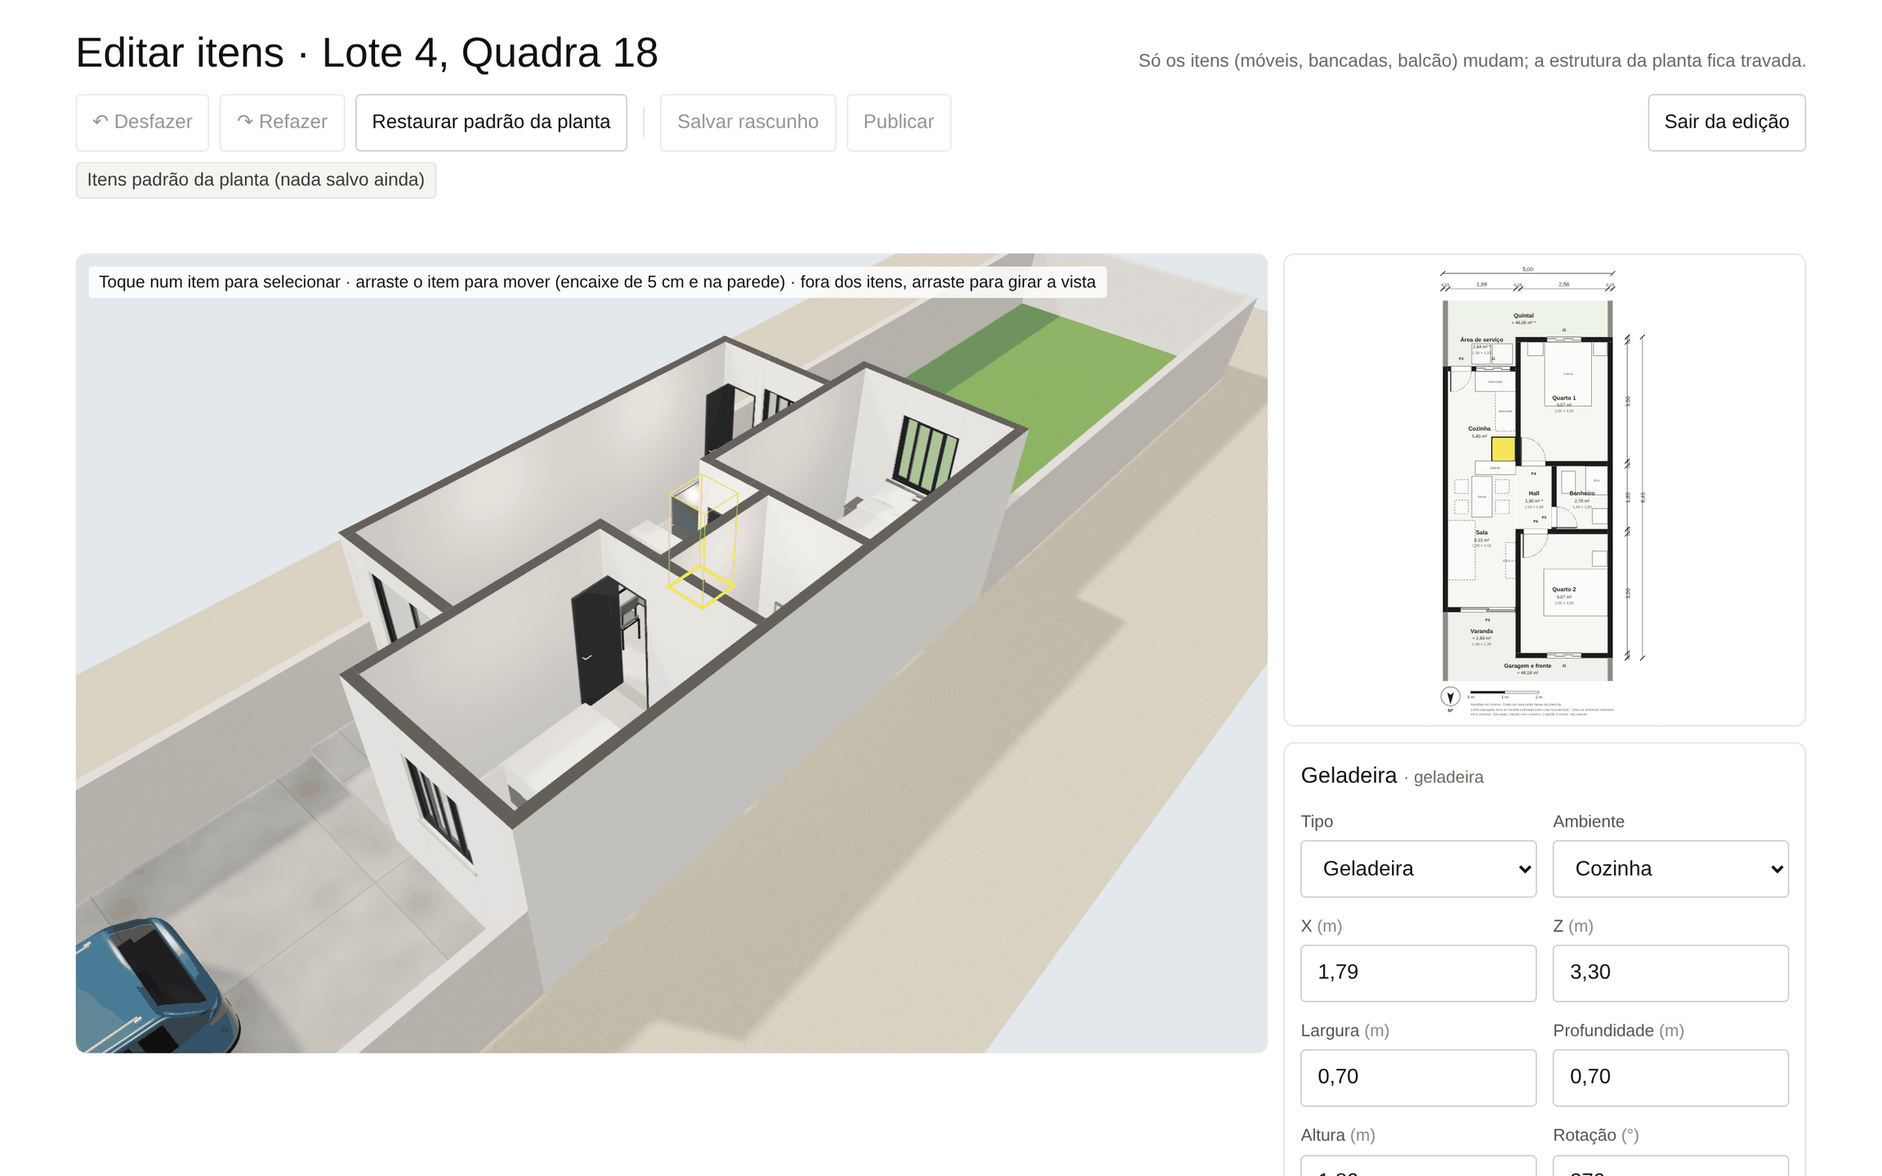
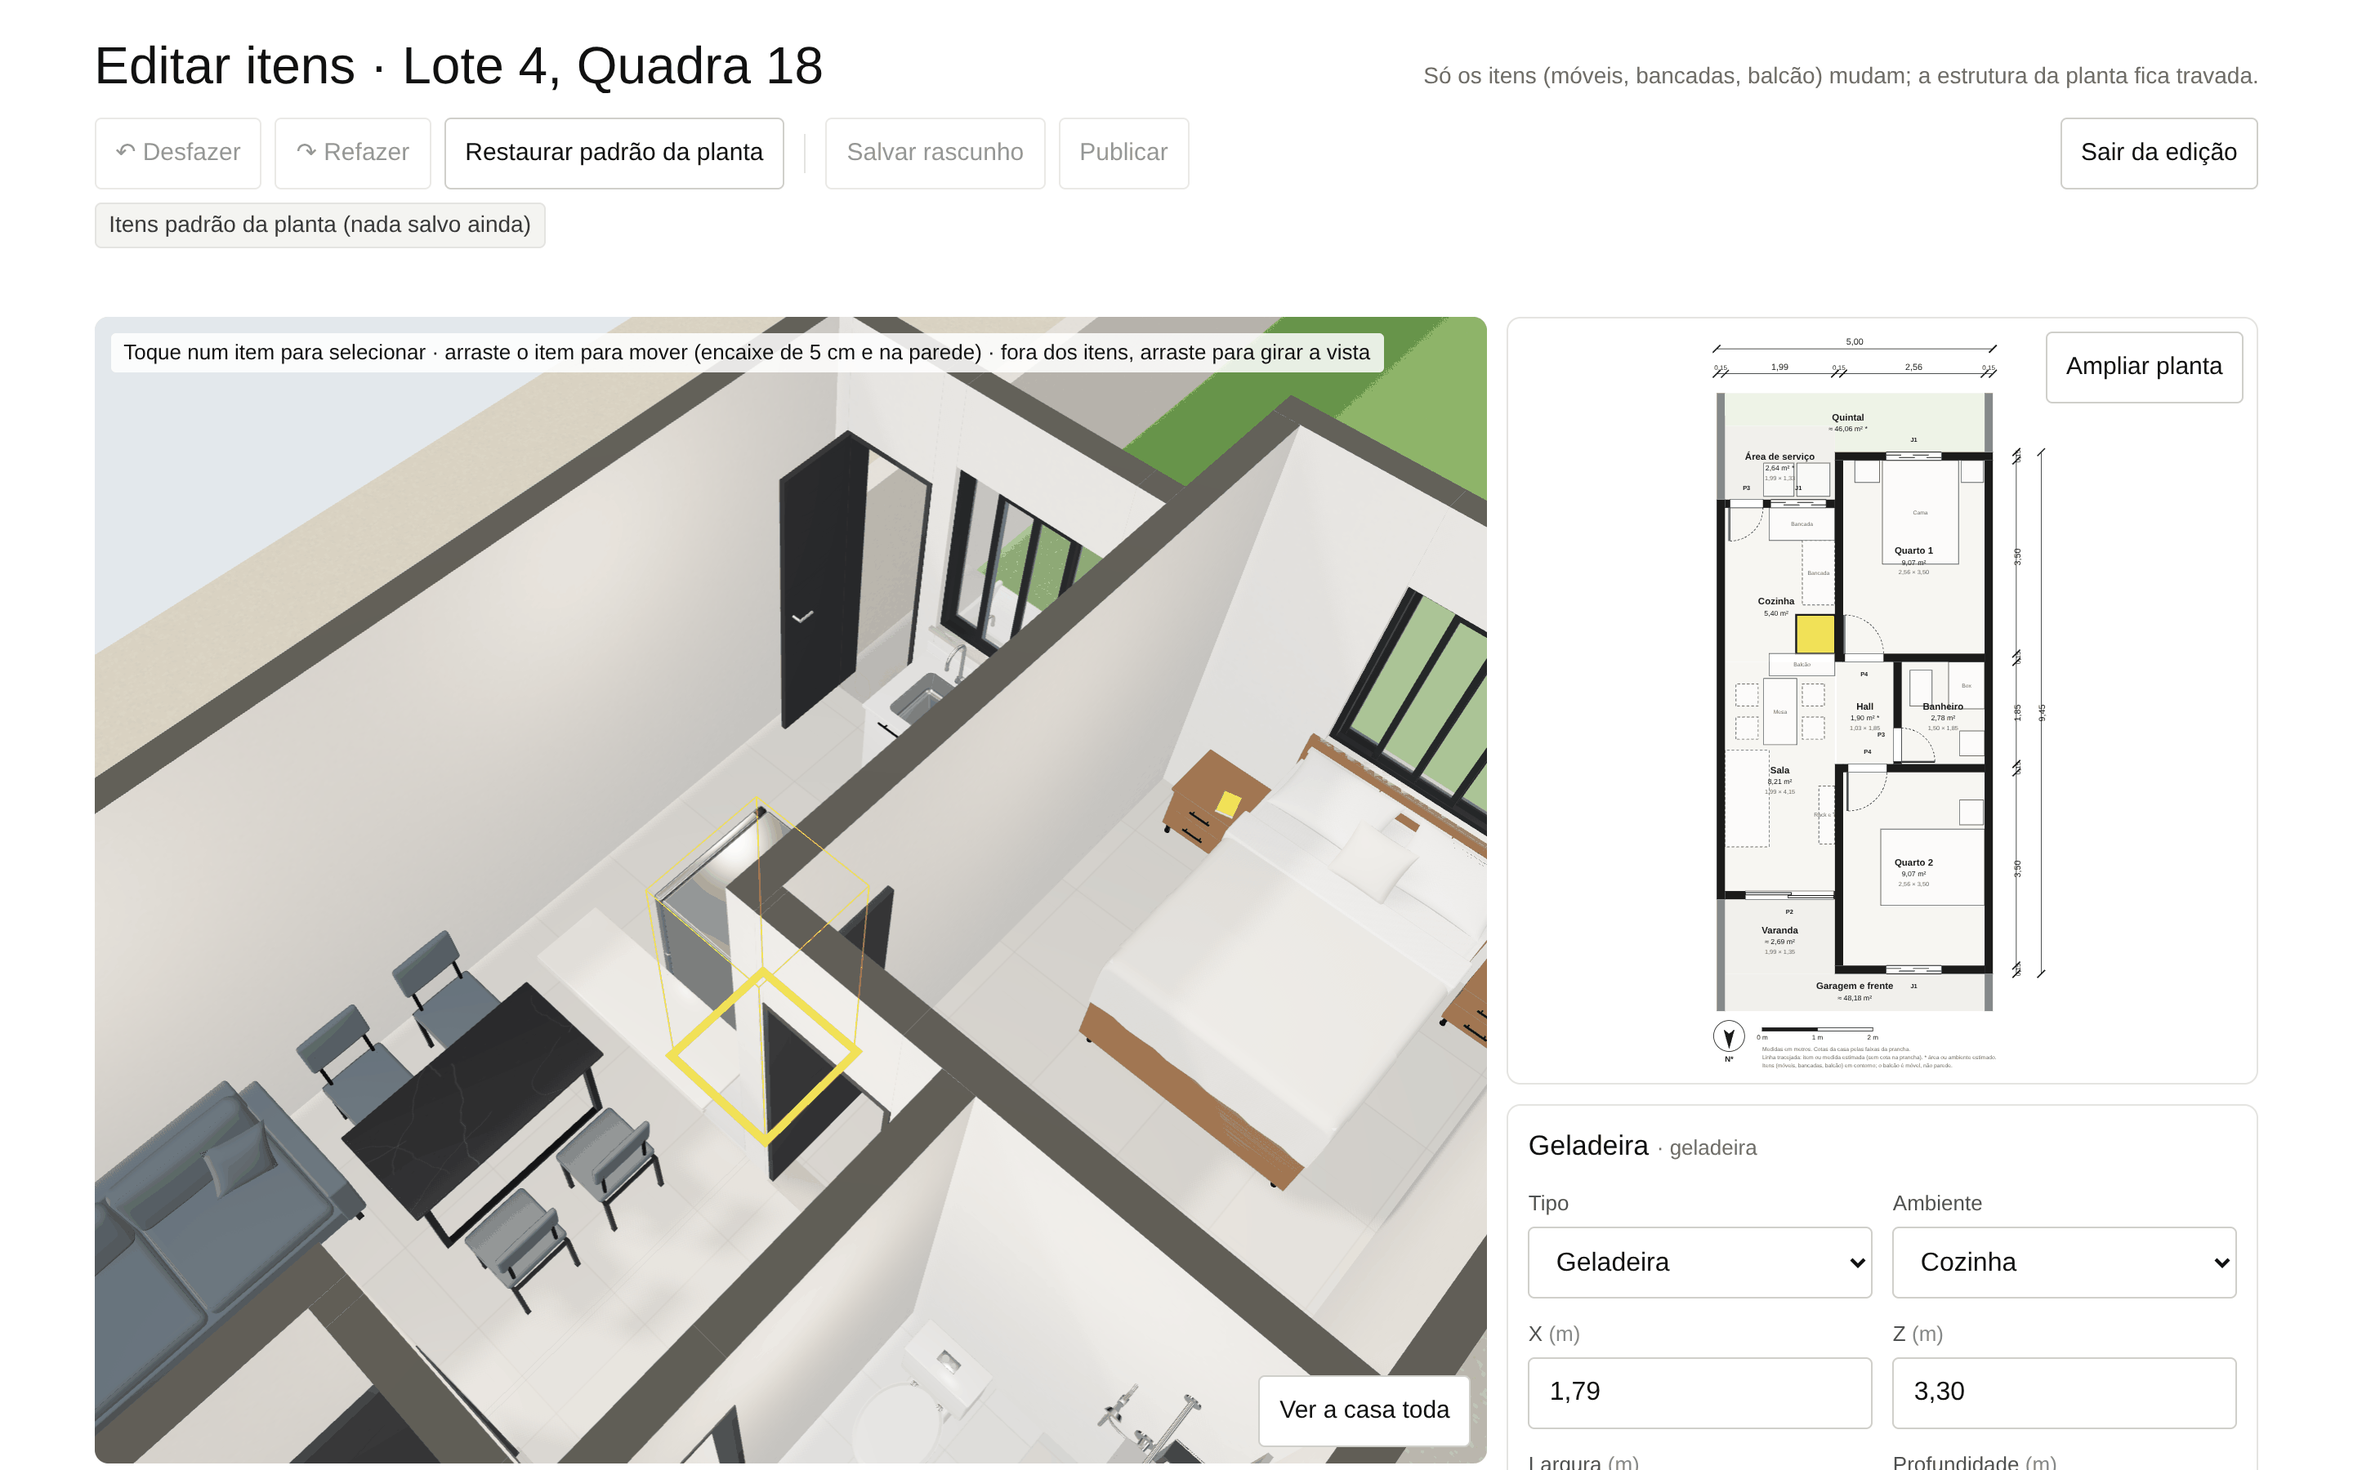
fix: editor no computador enquadra o ambiente do item, planta ampliável e rótulos de porta sem sobrepor [EPIC-028 E3]
- selecionar um item enquadra o 3D no ambiente dele (no arraste 3D, só ao soltar);
  botão 'Ver a casa toda'
- planta 2D lateral maior e 'Ampliar planta' (troca o 3D pela planta grande)
- rótulos de portas vizinhas na planta 2D deslizam ao longo do vão em vez de
  sobrepor (P3 do banheiro x P4 do quarto 2)
- screenshots da Etapa 3 regravados (+ desktop-editor-planta-ampliada)

Claude-Session: https://claude.ai/code/session_01QpDfRA1nw7ADvjpi5ZVGUK

diff --git a/client/src/components/maquete-3d/editor/EditorItens.tsx b/client/src/components/maquete-3d/editor/EditorItens.tsx
@@ -11,7 +11,7 @@ import { ambienteEm, cenaDaFonte, ehAuxiliar, pecasDaFonte, type PecaFonte } fro
 import type { TipoMovel } from "@shared/maquete-3d/mobilia";
 import {
   alterarItem, ambientesEditaveis, canonico, converterTipo, criarHistorico, desfazer, fecharGesto, girar, itensDoProblema, novoItem,
-  portasBloqueadas, posicaoArrastada, problemasDaEdicao, refazer, registrar, rotuloDoTipo, type Historico,
+  portasBloqueadas, posicaoArrastada, problemasDaEdicao, refazer, registrar, rotuloDoTipo, vistaDoAmbiente, type Historico,
 } from "@shared/maquete-3d/edicao";
 import { Planta2D } from "../planta2d/Planta2D";
 import VisualizadorFonte, { type Controles } from "../visualizador/VisualizadorFonte";
@@ -33,6 +33,18 @@ function usarPecas(fonte: FontePlanta, itens: ItemFonte[]): PecaFonte[] {
   }), [fonte, itens]);
 }
 
+/** Computador (o enquadramento no ambiente e a planta grande valem só aí; no celular, 3D e planta já ocupam a tela). */
+function usarComputador() {
+  const consulta = "(min-width: 768px)";
+  const [sim, setSim] = useState(() => typeof window !== "undefined" && window.matchMedia(consulta).matches);
+  useEffect(() => {
+    const m = window.matchMedia(consulta), mudou = () => setSim(m.matches);
+    m.addEventListener("change", mudou);
+    return () => m.removeEventListener("change", mudou);
+  }, []);
+  return sim;
+}
+
 const ehCampoDeTexto = (t: EventTarget | null) => t instanceof HTMLElement && (t.isContentEditable || /^(INPUT|SELECT|TEXTAREA)$/.test(t.tagName));
 
 export default function EditorItens({ planta, conexao, aoSair }: { planta: string; conexao: ConexaoEditor; aoSair: (itens: ItemFonte[] | null) => void }) {
@@ -48,6 +60,10 @@ export default function EditorItens({ planta, conexao, aoSair }: { planta: strin
   const [ocupado, setOcupado] = useState<null | "salvar" | "publicar">(null);
   const [msg, setMsg] = useState<Mensagem | null>(null);
   const [pronto, setPronto] = useState(false);
+  /** Ambiente em que o 3D está enquadrado (computador); null = visão geral. */
+  const [foco, setFoco] = useState<string | null>(null);
+  const [plantaGrande, setPlantaGrande] = useState(false);
+  const computador = usarComputador();
 
   const abrir = useCallback(async () => {
     setErroAbrir(null);
@@ -63,7 +79,8 @@ export default function EditorItens({ planta, conexao, aoSair }: { planta: strin
   const base = dados?.fonte ?? null;
   const itens = h?.presente ?? [];
   const cena = useMemo(() => (base ? cenaDaFonte(base) : null), [base]);
-  const vista = cena?.vistas.find(v => v.tipo === "geral") ?? cena?.vistas[0] ?? null;
+  const geral = cena?.vistas.find(v => v.tipo === "geral") ?? cena?.vistas[0] ?? null;
+  const vista = useMemo(() => (base && geral && foco && computador ? vistaDoAmbiente(base, geral, foco) ?? geral : geral), [base, geral, foco, computador]);
   const fonte = useMemo(() => (base ? { ...base, itens } : null), [base, itens]);
   const pecas = usarPecas(base ?? ({ estrutura: { ambientes: [] } } as unknown as FontePlanta), base ? itens : []);
   const problemas = useMemo(() => (base ? problemasDaEdicao(base, itens) : []), [base, itens]);
@@ -76,6 +93,10 @@ export default function EditorItens({ planta, conexao, aoSair }: { planta: strin
   const editaveis = useMemo(() => new Set(itens.filter(i => i.editavel).map(i => i.id)), [itens]);
   const sujo = useMemo(() => canonico(itens) !== canonico(salvos), [itens, salvos]);
   const item = itens.find(i => i.id === sel) ?? null;
+  const itensRef = useRef(itens);
+  itensRef.current = itens;
+  /** Enquadra o 3D no ambiente do item (o contorno amarelo fica visível); a câmera não volta sozinha ao desmarcar. */
+  const focar = useCallback((id: string) => { const i = itensRef.current.find(q => q.id === id); if (i) setFoco(i.ambiente); }, []);
 
   // ── Mudanças (todas passam pelo histórico) ──
   const mudar = useCallback((f: (lista: ItemFonte[]) => ItemFonte[], chave: string | null = null) => {
@@ -106,7 +127,13 @@ export default function EditorItens({ planta, conexao, aoSair }: { planta: strin
       if (p) mover(p.id, p.x, p.z, `arrastar:${p.id}:${p.gesto}`);
     });
   }, [mover]);
-  const aoSoltar = useCallback(() => setH(x => (x ? fecharGesto(x) : x)), []);
+  const aoSoltar = useCallback(() => {
+    setH(x => (x ? fecharGesto(x) : x));
+    const id = focoPendente.current;
+    focoPendente.current = null;
+    // Depois do quadro: o item já está no ambiente para onde foi arrastado.
+    if (id) requestAnimationFrame(() => focar(id));
+  }, [focar]);
   useEffect(() => () => cancelAnimationFrame(quadro.current), []);
 
   const doItem = (m: Partial<ItemFonte>, campo: string) => {
@@ -122,10 +149,21 @@ export default function EditorItens({ planta, conexao, aoSair }: { planta: strin
     mudar(lista => [...lista, novo]);
     setSel(novo.id);
   };
-  const selecionar = useCallback((id: string | null) => {
+  const selecionar = useCallback((id: string | null, enquadrar = true) => {
     setSel(id);
-    if (id) { const i = h?.presente.find(q => q.id === id); if (i && ambientes.includes(i.ambiente)) setAmbCat(i.ambiente); }
-  }, [h, ambientes]);
+    if (id) {
+      const i = h?.presente.find(q => q.id === id);
+      if (i && ambientes.includes(i.ambiente)) setAmbCat(i.ambiente);
+      if (enquadrar) focar(id);
+    }
+  }, [h, ambientes, focar]);
+  // No 3D o toque num item já pode virar arraste: a câmera só se move quando o dedo/mouse sobe (aoSoltar).
+  const focoPendente = useRef<string | null>(null);
+  const selecionar3d = useCallback((id: string | null) => {
+    selecionar(id, false);
+    if (id && itensRef.current.find(q => q.id === id)?.editavel) focoPendente.current = id;
+    else if (id) focar(id);
+  }, [selecionar, focar]);
   const restaurar = () => { if (!dados) return; mudar(() => dados.padrao); setSel(null); setMsg({ tipo: "ok", texto: "Itens padrão da planta de volta. Salve para gravar (ou desfaça)." }); };
   const desfazerUm = useCallback(() => setH(x => (x ? desfazer(x) : x)), []);
   const refazerUm = useCallback(() => setH(x => (x ? refazer(x) : x)), []);
@@ -240,10 +278,11 @@ export default function EditorItens({ planta, conexao, aoSair }: { planta: strin
           </button>
         ))}
       </div>
-      <div className="grid gap-3 md:grid-cols-[minmax(0,1fr)_minmax(320px,400px)]">
-        <div className={`${aba === "3d" ? "block" : "hidden"} relative h-[46vh] min-h-[300px] overflow-hidden rounded-md bg-[#D8D8D4] md:block md:h-[min(68vh,640px)]`} data-teste="editor-3d" style={{ touchAction: "none" }}>
+      {/* Computador: 3D à esquerda e planta + painel à direita; "Ampliar planta" troca o 3D pela planta grande. */}
+      <div className="grid gap-3 md:grid-cols-[minmax(0,1fr)_minmax(360px,460px)] md:grid-rows-[auto_1fr]">
+        <div className={`${aba === "3d" ? "block" : "hidden"} relative h-[46vh] min-h-[300px] overflow-hidden rounded-md bg-[#D8D8D4] md:row-span-2 md:h-[min(78vh,760px)] ${plantaGrande ? "md:hidden" : "md:block"}`} data-teste="editor-3d" style={{ touchAction: "none" }}>
           <VisualizadorFonte cena={cena} pecas={pecas} vista={vista} telhado={false} aoPronto={marcarPronto} grupoItens={grupoItens} controlesRef={controles} semRotulos>
-            <Interacao3D grupoItens={grupoItens} controles={controles} pecas={pecas} editaveis={editaveis} aoSelecionar={selecionar} aoArrastar={aoArrastar} aoSoltar={aoSoltar} />
+            <Interacao3D grupoItens={grupoItens} controles={controles} pecas={pecas} editaveis={editaveis} aoSelecionar={selecionar3d} aoArrastar={aoArrastar} aoSoltar={aoSoltar} />
             <ZonasBloqueadas zonas={zonas} y={0.4} />
             {pecas.filter(p => comErro.has(p.id) && p.id !== sel).map(p => <Contorno key={`e-${p.id}`} p={p} erro selecionado={false} />)}
             {selPeca && <Contorno p={selPeca} erro={comErro.has(selPeca.id)} selecionado />}
@@ -251,13 +290,21 @@ export default function EditorItens({ planta, conexao, aoSair }: { planta: strin
           <div className="pointer-events-none absolute left-2.5 top-2.5 max-w-[calc(100%-1.25rem)] rounded-[3px] bg-white/85 px-2 py-0.5 text-[13px] text-[#111]">
             Toque num item para selecionar · arraste o item para mover (encaixe de 5 cm e na parede) · fora dos itens, arraste para girar a vista
           </div>
+          {foco && computador && (
+            <button type="button" className={`${botao} absolute bottom-2.5 right-2.5 bg-white`} onClick={() => setFoco(null)} data-teste="ver-casa">Ver a casa toda</button>
+          )}
         </div>
-        <div className="grid content-start gap-3">
-          <div className={`${aba === "planta" ? "block" : "hidden"} rounded-md border border-[#E4E4E0] bg-white md:block`} data-teste="editor-planta">
-            <div className="mx-auto h-[46vh] min-h-[300px] w-full max-w-[560px] md:h-[min(40vh,400px)]">
-              <Planta2D fonte={fonte} edicao={{ selecionado: sel, comErro, zonas, aoApontarItem, aoApontarFundo: () => setSel(null), svgRef: svg }} />
-            </div>
+        <div className={`${aba === "planta" ? "block" : "hidden"} relative rounded-md border border-[#E4E4E0] bg-white md:block ${plantaGrande ? "md:col-start-1 md:row-span-2 md:row-start-1" : "md:col-start-2 md:row-start-1"}`} data-teste="editor-planta">
+          <div className={`mx-auto h-[46vh] min-h-[300px] w-full ${plantaGrande ? "md:h-[min(78vh,760px)] md:max-w-none" : "max-w-[560px] md:h-[min(52vh,520px)]"}`}>
+            <Planta2D fonte={fonte} edicao={{ selecionado: sel, comErro, zonas, aoApontarItem, aoApontarFundo: () => setSel(null), svgRef: svg }} />
           </div>
+          <div className="absolute right-2 top-2 hidden md:block">
+            <button type="button" className={botao} aria-pressed={plantaGrande} onClick={() => setPlantaGrande(v => !v)} data-teste="ampliar-planta">
+              {plantaGrande ? "Voltar ao 3D" : "Ampliar planta"}
+            </button>
+          </div>
+        </div>
+        <div className={`grid content-start gap-3 md:col-start-2 ${plantaGrande ? "md:row-span-2 md:row-start-1" : "md:row-start-2"}`}>
           {(erros.length > 0 || avisos.length > 0) && (
             <section aria-label="Avisos" className="grid gap-1.5" data-teste="avisos">
               {erros.map((p, k) => {

diff --git a/server/maquete-3d-edicao.test.ts b/server/maquete-3d-edicao.test.ts
@@ -6,11 +6,13 @@ import path from "node:path";
 import { describe, expect, it } from "vitest";
 import { lerFonte, type ItemFonte } from "../shared/maquete-3d/fonte.js";
 import {
-  CATALOGO_ITENS, MATERIAIS_ITEM, TIPOS_SUSPENSOS, alterarItem, comAlcanceDerivado, ambientesEditaveis, bloqueiaSalvar, canonico, converterTipo, costasDoItem, criarHistorico,
+  CATALOGO_ITENS, MATERIAIS_ITEM, TIPOS_SUSPENSOS, alterarItem, comAlcanceDerivado, vistaDoAmbiente, ambientesEditaveis, bloqueiaSalvar, canonico, converterTipo, costasDoItem, criarHistorico,
   desfazer, encaixar, encaixeNaParede, fecharGesto, girar, itemEditadoSchema, itensDoProblema, itensEdicaoSchema, novoId, novoItem,
   posicaoArrastada, problemasDaEdicao, refazer, registrar, tiposDoGrupo, travadosAlterados,
 } from "../shared/maquete-3d/edicao.js";
 import { TIPOS_MOVEL } from "../shared/maquete-3d/mobilia.js";
+import { cenaDaFonte } from "../shared/maquete-3d/fonte-cena.js";
+import { planta2d } from "../shared/maquete-3d/planta2d.js";
 
 const FONTE = lerFonte(JSON.parse(readFileSync(path.resolve(import.meta.dirname, "../data/plantas/lote4-qd18.json"), "utf8")));
 const ITENS = FONTE.itens;
@@ -230,5 +232,27 @@ describe("correções do portão de QA (E3)", () => {
     const d = comAlcanceDerivado(FONTE, com("sofa", { alcanca: ["Quarto 1"] }, com("balcao", { alcanca: ["Quarto 1", "Banheiro"] })));
     expect(d.find(i => i.id === "sofa")!.alcanca).toBeUndefined();
     expect(d.find(i => i.id === "balcao")!.alcanca).toEqual(item("balcao").alcanca);
+  });
+});
+
+describe("correções visuais do portão de QA (E3)", () => {
+  it("rótulos das portas na planta 2D não se sobrepõem (P3 do banheiro × P4 do quarto 2) e cada P3 fica junto do seu vão", () => {
+    const abs = planta2d(FONTE).aberturas;
+    for (let a = 0; a < abs.length; a++) for (let b = a + 1; b < abs.length; b++) {
+      const A = abs[a].rotulo, B = abs[b].rotulo;
+      expect(Math.abs(A.x - B.x) >= 0.26 || Math.abs(A.z - B.z) >= 0.17, `${abs[a].id} × ${abs[b].id}`).toBe(true);
+    }
+    for (const ab of abs.filter(x => x.codigo === "P3")) {
+      const cx = ab.vao.reduce((s, p) => s + p[0], 0) / ab.vao.length, cz = ab.vao.reduce((s, p) => s + p[1], 0) / ab.vao.length;
+      expect(Math.hypot(ab.rotulo.x - cx, ab.rotulo.z - cz), ab.id).toBeLessThan(0.6);
+    }
+  });
+  it("vista do editor enquadrada no ambiente: alvo no centro dele, mais perto que a visão geral", () => {
+    const geral = cenaDaFonte(FONTE).vistas.find(v => v.tipo === "geral")!;
+    const v = vistaDoAmbiente(FONTE, geral, "Cozinha")!;
+    expect(v.tipo).toBe("geral");
+    const dist = (x: typeof v) => Math.hypot(x.pos[0] - x.alvo[0], x.pos[1] - x.alvo[1], x.pos[2] - x.alvo[2]);
+    expect(dist(v)).toBeLessThan(dist(geral));
+    expect(vistaDoAmbiente(FONTE, geral, "Inexistente")).toBeNull();
   });
 });

diff --git a/shared/maquete-3d/edicao.ts b/shared/maquete-3d/edicao.ts
@@ -5,7 +5,7 @@
 import { z } from "zod";
 import { TIPOS_MOVEL, type TipoMovel } from "./mobilia.js";
 import { EPS_AREA, areaComum, contornoDoItem, eixoDaParede, ehOrtogonal, poligonoDoAmbiente, type AmbienteFonte, type FontePlanta, type ItemFonte } from "./fonte.js";
-import { ehAuxiliar } from "./fonte-cena.js";
+import { ehAuxiliar, type VistaCena } from "./fonte-cena.js";
 import { pontoInterno } from "./geometria3d.js";
 import { ROTULOS_MOVEL_FONTE } from "./rotulos-itens.js";
 import { temErro, validarFonte, zonasDaPorta, type ProblemaFonte } from "./validacao-fonte.js";
@@ -232,6 +232,25 @@ export function converterTipo(i: ItemFonte, novo: TipoMovel): ItemFonte {
 
 /** Ambientes onde se pode pôr item (sem as faixas auxiliares, como a divisa cozinha/sala). */
 export const ambientesEditaveis = (f: FontePlanta): AmbienteFonte[] => f.estrutura.ambientes.filter(a => !ehAuxiliar(a));
+
+/**
+ * Vista do editor (computador) enquadrada num ambiente: a mesma direção da visão geral, mais de cima e mais perto, para
+ * o contorno do item selecionado ficar bem visível. `null` se o ambiente não existe.
+ */
+export function vistaDoAmbiente(f: FontePlanta, geral: VistaCena, nome: string): VistaCena | null {
+  const a = f.estrutura.ambientes.find(x => x.nome === nome);
+  if (!a) return null;
+  const pts = poligonoDoAmbiente(a);
+  const xs = pts.map(q => q.x), zs = pts.map(q => q.y);
+  const [x0, x1, z0, z1] = [Math.min(...xs), Math.max(...xs), Math.min(...zs), Math.max(...zs)];
+  const alvo: [number, number, number] = [r4((x0 + x1) / 2), a.piso, r4((z0 + z1) / 2)];
+  const d = [(geral.pos[0] - geral.alvo[0]) * 0.6, geral.pos[1] - geral.alvo[1], (geral.pos[2] - geral.alvo[2]) * 0.6];
+  const n = Math.hypot(d[0], d[1], d[2]) || 1, dist = Math.max(7.5, Math.hypot(x1 - x0, z1 - z0) * 2.4);
+  return {
+    ...geral, id: `foco-${a.nome}`, nome: a.nome, ambiente: a.nome,
+    pos: [r4(alvo[0] + (d[0] / n) * dist), r4(alvo[1] + (d[1] / n) * dist), r4(alvo[2] + (d[2] / n) * dist)], alvo,
+  };
+}
 
 /** Ponto de partida de um item novo num ambiente (ponto interno, no encaixe de 5 cm). */
 export function centroDoAmbiente(f: FontePlanta, nome: string) {

diff --git a/shared/maquete-3d/planta2d.ts b/shared/maquete-3d/planta2d.ts
@@ -169,7 +169,14 @@ export function planta2d(f: FontePlanta): Planta2D {
       return !internos.some(pol => dentroPol(q, pol));
     }) ?? 1;
     const sb = simbolo(w, ab, giro, fora);
-    if (dentroDaCaixa(sb.vao, caixa)) simbolos.push(sb);
+    if (!dentroDaCaixa(sb.vao, caixa)) continue;
+    // Rótulos de portas vizinhas (ex.: P3 do banheiro e P4 do quarto 2, no hall) não se sobrepõem: se o lugar padrão
+    // bate num rótulo já posto, o rótulo desliza ao longo do próprio vão e, em último caso, vai para o outro lado.
+    const lado = giro ? -giro : fora, e = w.esp / 2 + 0.22, s0 = ab.offset, s1 = ab.offset + ab.larg;
+    const candidatos: [number, number][] = [[sb.rotulo.x, sb.rotulo.z], ponto(w, s0 + 0.12, lado * e), ponto(w, s1 - 0.12, lado * e), ponto(w, (s0 + s1) / 2, -lado * e)];
+    const livre = candidatos.find(([x, z]) => !simbolos.some(o => Math.abs(o.rotulo.x - x) < 0.26 && Math.abs(o.rotulo.z - z) < 0.17));
+    if (livre) sb.rotulo = { ...sb.rotulo, x: livre[0], z: livre[1] };
+    simbolos.push(sb);
   }
 
   const itens: ItemPlanta[] = f.itens.map(i => {
